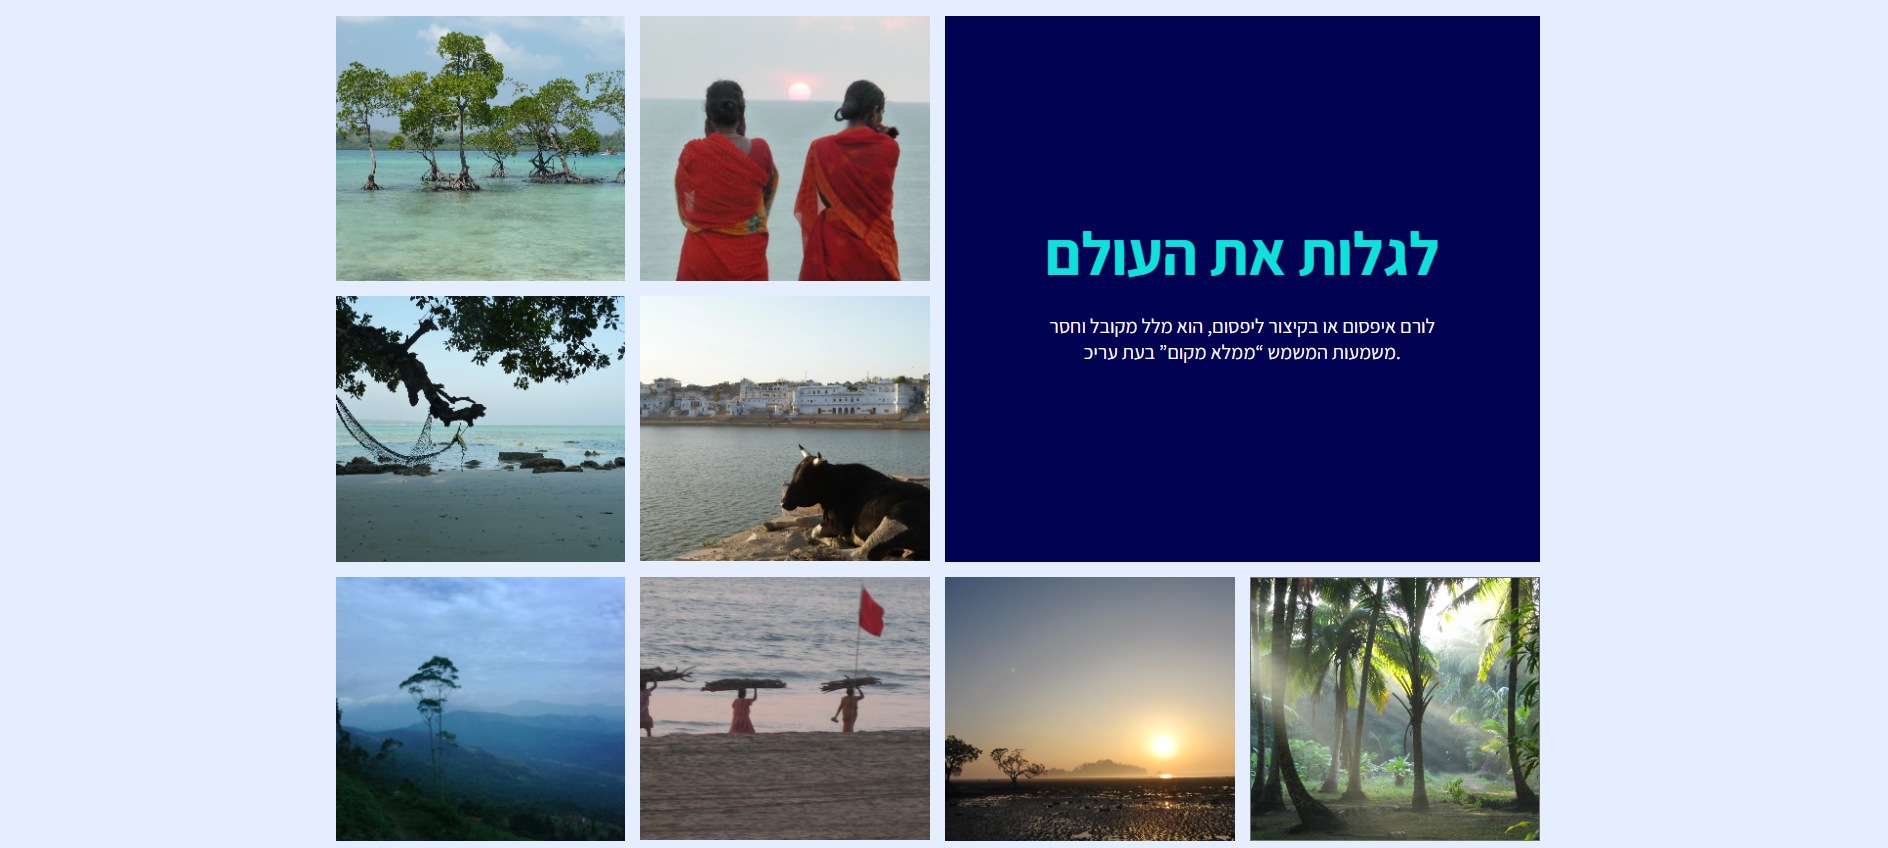
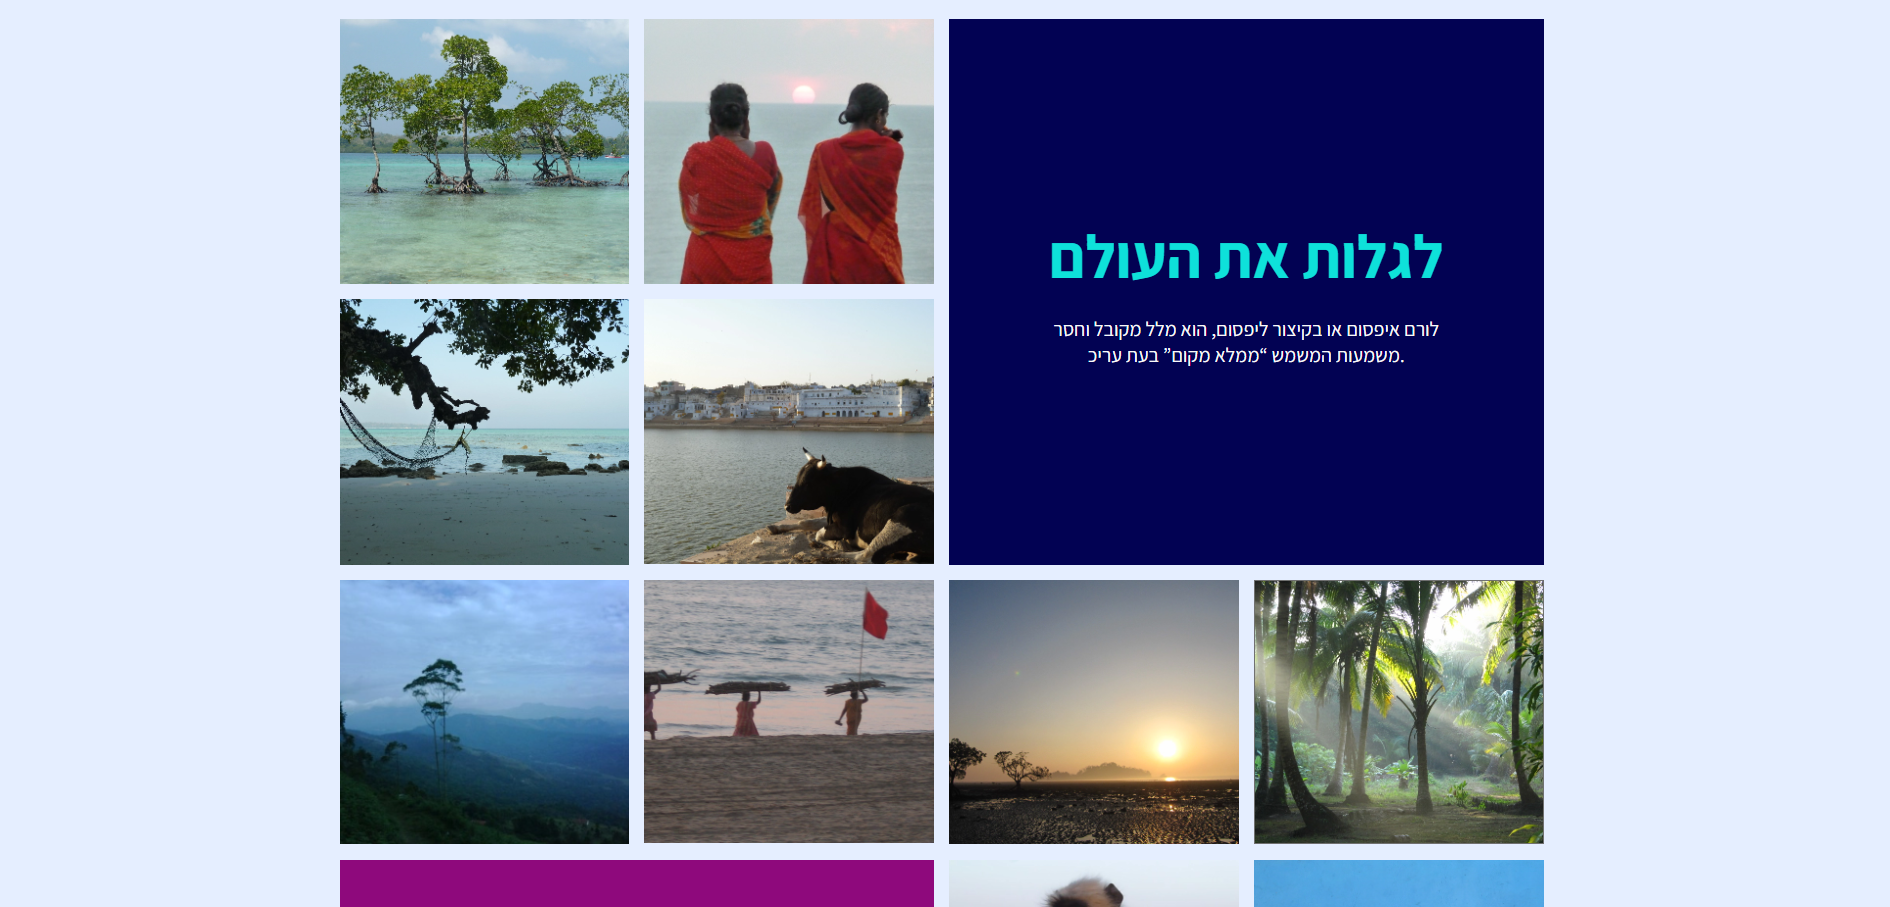
Changes pics

Changed region(s): [[0.1562, 0.0307, 0.8438, 1.0], [0.5312, 0.2453, 0.7812, 0.4292]]

diff --git a/Projects/Discover the world/Landing Page Displayed/style/style.css b/Projects/Discover the world/Landing Page Displayed/style/style.css
@@ -172,7 +172,6 @@ body {
 
 .project img {
     width: 60vw;
-    height: 60%;
     margin-bottom: 130px;
 }
 
@@ -300,7 +299,6 @@ body {
 
     .project img {
         width: 90%;
-        height: 300px;
         box-shadow: 0px 0px 40px #00000066;
     }
 

diff --git a/Projects/Free Consulting/Landing Page Displayed/style/style.css b/Projects/Free Consulting/Landing Page Displayed/style/style.css
@@ -172,7 +172,6 @@ body {
 
 .project img {
     width: 60vw;
-    height: 60%;
     margin-bottom: 130px;
 }
 
@@ -300,7 +299,6 @@ body {
 
     .project img {
         width: 90%;
-        height: 300px;
         box-shadow: 0px 0px 40px #00000066;
     }
 

diff --git a/Projects/Here and Now/Landing Page Displayed/style/style.css b/Projects/Here and Now/Landing Page Displayed/style/style.css
@@ -172,7 +172,6 @@ body {
 
 .project img {
     width: 60vw;
-    height: 60%;
     margin-bottom: 130px;
 }
 
@@ -300,7 +299,6 @@ body {
 
     .project img {
         width: 90%;
-        height: 300px;
         box-shadow: 0px 0px 40px #00000066;
     }
 

diff --git a/Projects/Landing Page Coffee/Landing Page Displayed/style/style.css b/Projects/Landing Page Coffee/Landing Page Displayed/style/style.css
@@ -172,7 +172,6 @@ body {
 
 .project img {
     width: 60vw;
-    height: 60%;
     margin-bottom: 130px;
 }
 
@@ -300,7 +299,6 @@ body {
 
     .project img {
         width: 90%;
-        height: 300px;
         box-shadow: 0px 0px 40px #00000066;
     }
 

diff --git a/Projects/Let us lead u pink/Landing Page Displayed/style/style.css b/Projects/Let us lead u pink/Landing Page Displayed/style/style.css
@@ -172,7 +172,6 @@ body {
 
 .project img {
     width: 60vw;
-    height: 60%;
     margin-bottom: 130px;
 }
 
@@ -300,7 +299,6 @@ body {
 
     .project img {
         width: 90%;
-        height: 300px;
         box-shadow: 0px 0px 40px #00000066;
     }
 

diff --git a/Projects/Let us lead u/Landing Page Displayed/style/style.css b/Projects/Let us lead u/Landing Page Displayed/style/style.css
@@ -172,7 +172,6 @@ body {
 
 .project img {
     width: 60vw;
-    height: 60%;
     margin-bottom: 130px;
 }
 
@@ -300,7 +299,6 @@ body {
 
     .project img {
         width: 90%;
-        height: 300px;
         box-shadow: 0px 0px 40px #00000066;
     }
 

diff --git a/Projects/My first/Landing Page Displayed/style/style.css b/Projects/My first/Landing Page Displayed/style/style.css
@@ -172,7 +172,6 @@ body {
 
 .project img {
     width: 60vw;
-    height: 60%;
     margin-bottom: 130px;
 }
 
@@ -300,7 +299,6 @@ body {
 
     .project img {
         width: 90%;
-        height: 300px;
         box-shadow: 0px 0px 40px #00000066;
     }
 

diff --git a/Projects/My second/Landing Page Displayed/style/style.css b/Projects/My second/Landing Page Displayed/style/style.css
@@ -172,7 +172,6 @@ body {
 
 .project img {
     width: 60vw;
-    height: 60%;
     margin-bottom: 130px;
 }
 
@@ -300,7 +299,6 @@ body {
 
     .project img {
         width: 90%;
-        height: 300px;
         box-shadow: 0px 0px 40px #00000066;
     }
 

diff --git a/Projects/My third/Landing Page Displayed/style/style.css b/Projects/My third/Landing Page Displayed/style/style.css
@@ -172,7 +172,6 @@ body {
 
 .project img {
     width: 60vw;
-    height: 60%;
     margin-bottom: 130px;
 }
 
@@ -300,7 +299,6 @@ body {
 
     .project img {
         width: 90%;
-        height: 300px;
         box-shadow: 0px 0px 40px #00000066;
     }
 

diff --git a/Projects/Here and Now/Landing Page Displayed/index.html b/Projects/Here and Now/Landing Page Displayed/index.html
@@ -58,7 +58,7 @@
     </div>
 
     <div class="project">
-        <img src="./Images/Here&Now.png" alt="Here & Now">
+        <img src="./Images/Here and now.png" alt="Here & Now">
     </div>
     <div class="rights">
         <p>מארק סלבקין</p>
